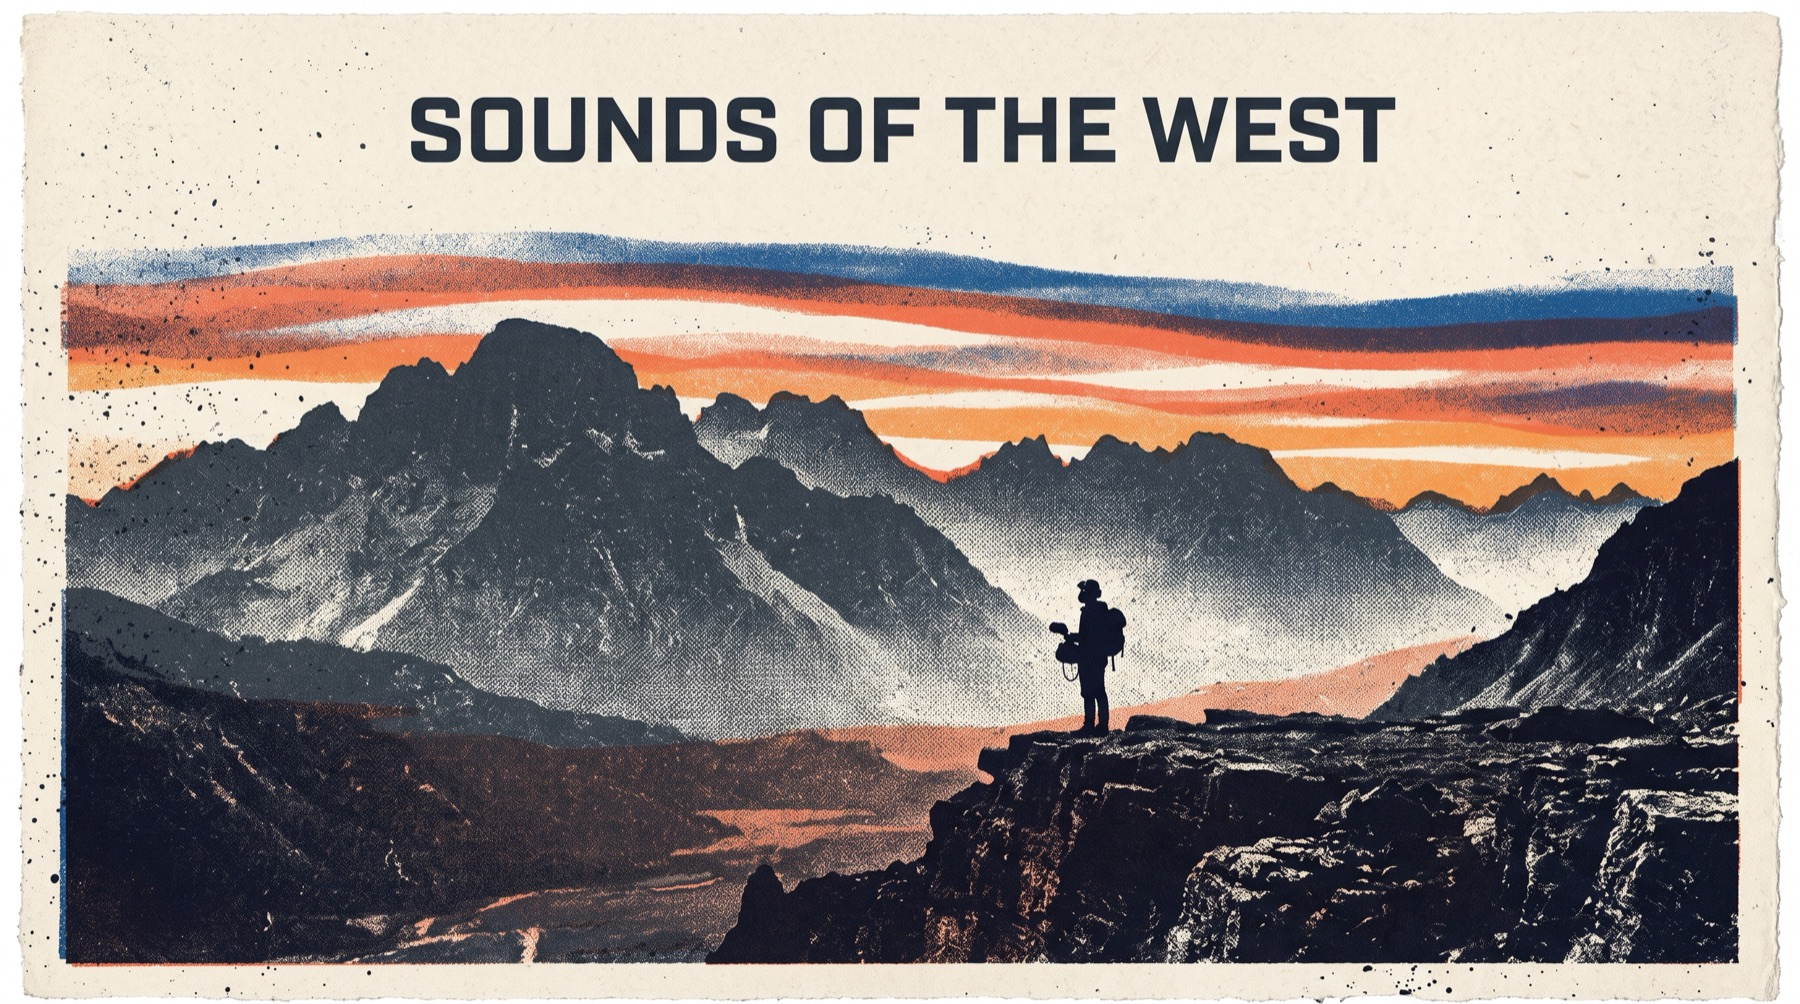
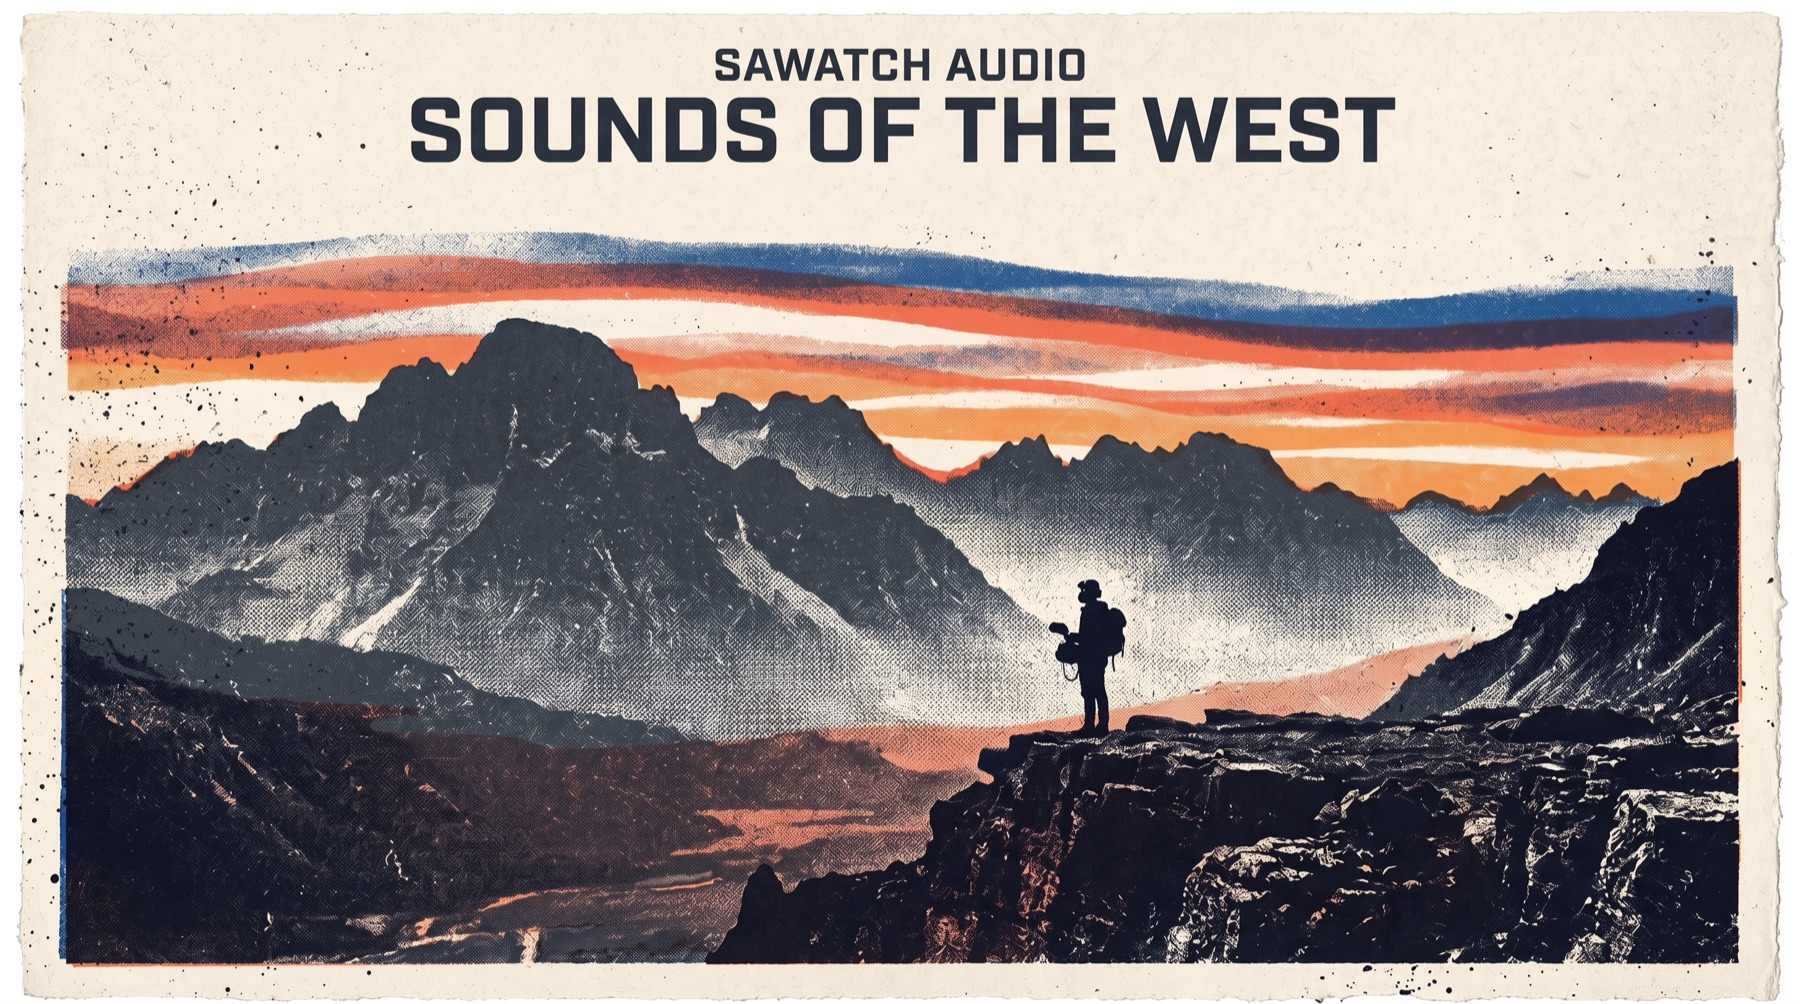
Refresh hero image, use current fixed pedal artwork, add print texture
Updated hero with sharper Sounds of the West artwork, swapped the
software-interface screenshot for the current pedal faceplate (clean
knobs, no baked indicator artifact), and pushed the Riso print brief
further: ink-bleed glow on buttons, a collectible-print postcard
treatment for the pedal image (paper mat, slight rotation, plate
caption).

diff --git a/index.html b/index.html
@@ -133,15 +133,15 @@
   .btn-primary {
     background-color: var(--terracotta);
     color: var(--paper);
-    box-shadow: 3px 3px 0 var(--ink);
+    box-shadow: 0 0 7px 1px rgba(184,92,52,0.4), 3px 3px 0 var(--ink);
   }
-  .btn-primary:hover { box-shadow: 4px 5px 0 var(--ink); }
+  .btn-primary:hover { box-shadow: 0 0 9px 1px rgba(184,92,52,0.5), 4px 5px 0 var(--ink); }
   .btn-secondary {
     background-color: transparent;
     color: var(--ink);
-    box-shadow: 3px 3px 0 rgba(27,32,54,0.35);
+    box-shadow: 0 0 6px 1px rgba(27,32,54,0.16), 3px 3px 0 rgba(27,32,54,0.35);
   }
-  .btn-secondary:hover { box-shadow: 4px 5px 0 rgba(27,32,54,0.35); }
+  .btn-secondary:hover { box-shadow: 0 0 8px 1px rgba(27,32,54,0.2), 4px 5px 0 rgba(27,32,54,0.35); }
 
   .hero-band { padding: 0; }
   .hero-band img {
@@ -202,14 +202,30 @@
   @media (prefers-reduced-motion: reduce) { .reveal { opacity: 1; transform: none; transition: none; } }
 
   .interface-shot {
-    max-width: 900px;
+    max-width: 860px;
     margin: 0 auto 44px;
-    border: 2px solid var(--ink);
-    border-radius: 10px;
+    background: var(--paper);
+    padding: 16px 16px 28px;
+    border: 1.5px solid var(--ink);
+    border-radius: 4px;
+    transform: rotate(-0.6deg);
+    box-shadow: 0 0 10px 1px rgba(184,92,52,0.16), 7px 9px 0 rgba(27,32,54,0.2);
+  }
+  .interface-shot .frame {
+    border: 1.5px solid var(--ink);
+    border-radius: 3px;
     overflow: hidden;
-    box-shadow: 6px 8px 0 rgba(27,32,54,0.18);
   }
   .interface-shot img { display: block; width: 100%; height: auto; }
+  .interface-shot .caption {
+    font-family: 'IBM Plex Mono', monospace;
+    font-size: 10.5px;
+    letter-spacing: 1.5px;
+    text-transform: uppercase;
+    color: var(--muted);
+    text-align: center;
+    margin: 12px 0 0;
+  }
 
   .knob-grid { display: grid; grid-template-columns: repeat(3, 1fr); gap: 22px; }
   @media (max-width: 760px) { .knob-grid { grid-template-columns: 1fr; } }
@@ -385,7 +401,10 @@
       plugin window. What you buy is what's on the faceplate.
     </p>
     <div class="interface-shot reveal">
-      <img src="pedal-faceplate.jpg" alt="Harmonic Range plugin interface with Warmth, Terrain, Altitude, and Mix knobs on a hand-illustrated mountain faceplate">
+      <div class="frame">
+        <img src="pedal-faceplate.jpg" alt="Harmonic Range plugin interface with Warmth, Terrain, Altitude, and Mix knobs on a hand-illustrated mountain faceplate">
+      </div>
+      <p class="caption">Plate No. 01 &middot; Harmonic Range</p>
     </div>
     <div class="knob-grid">
       <div class="knob-card reveal">
